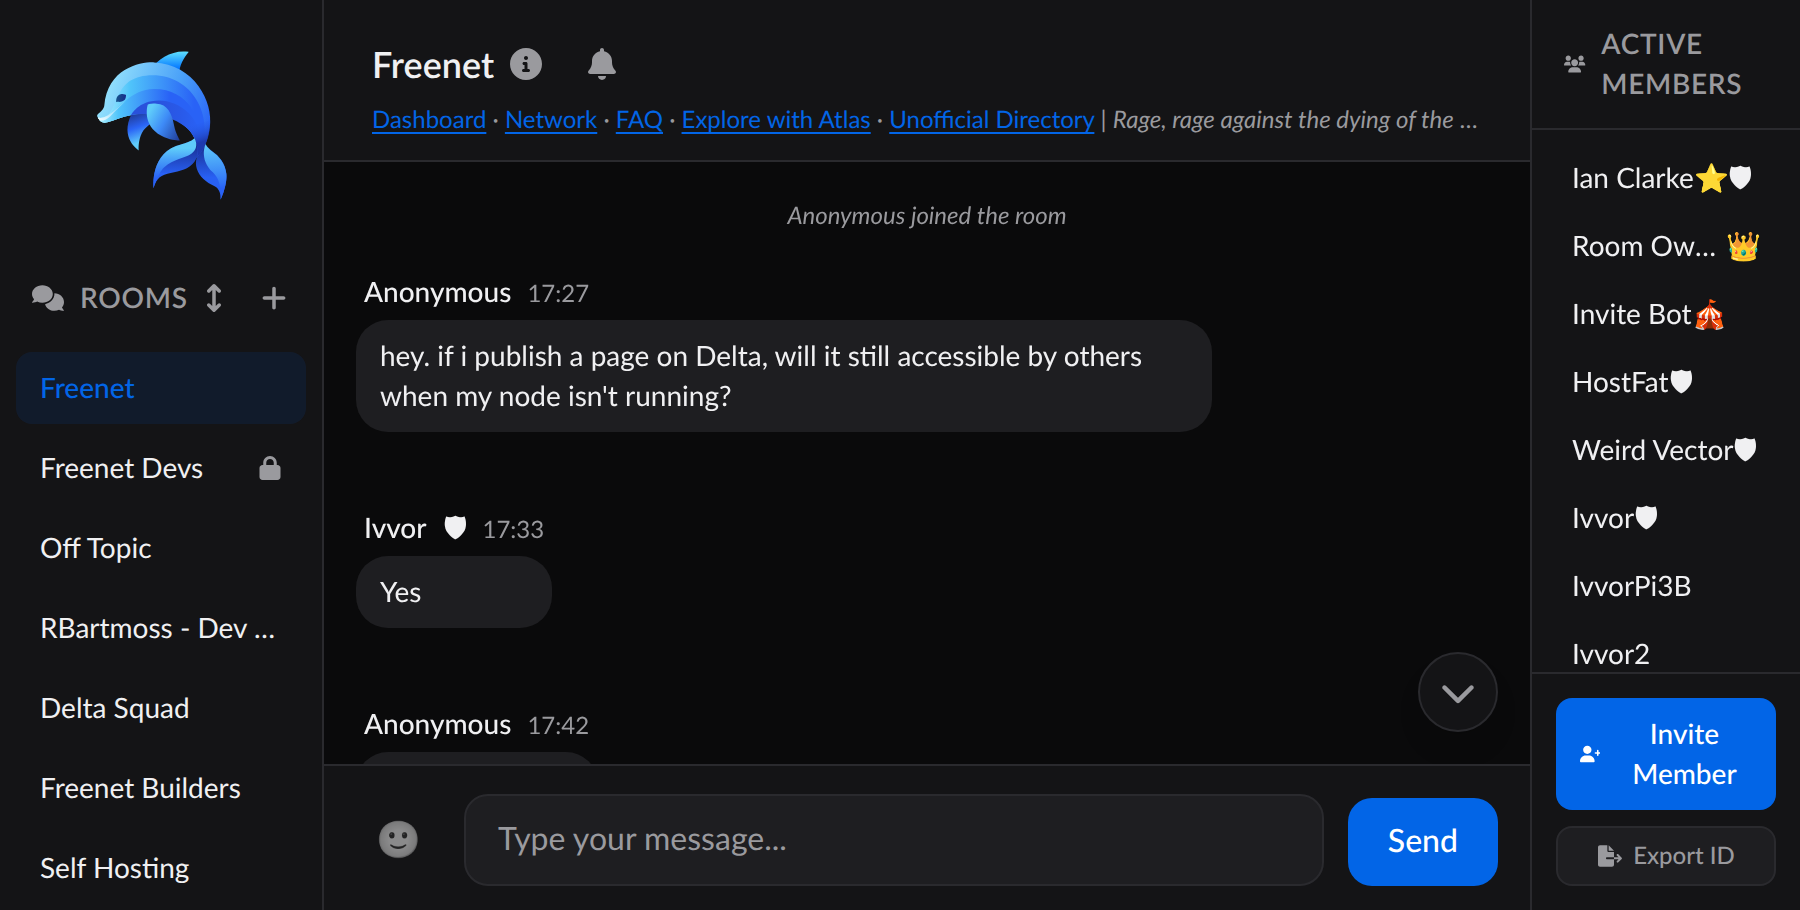
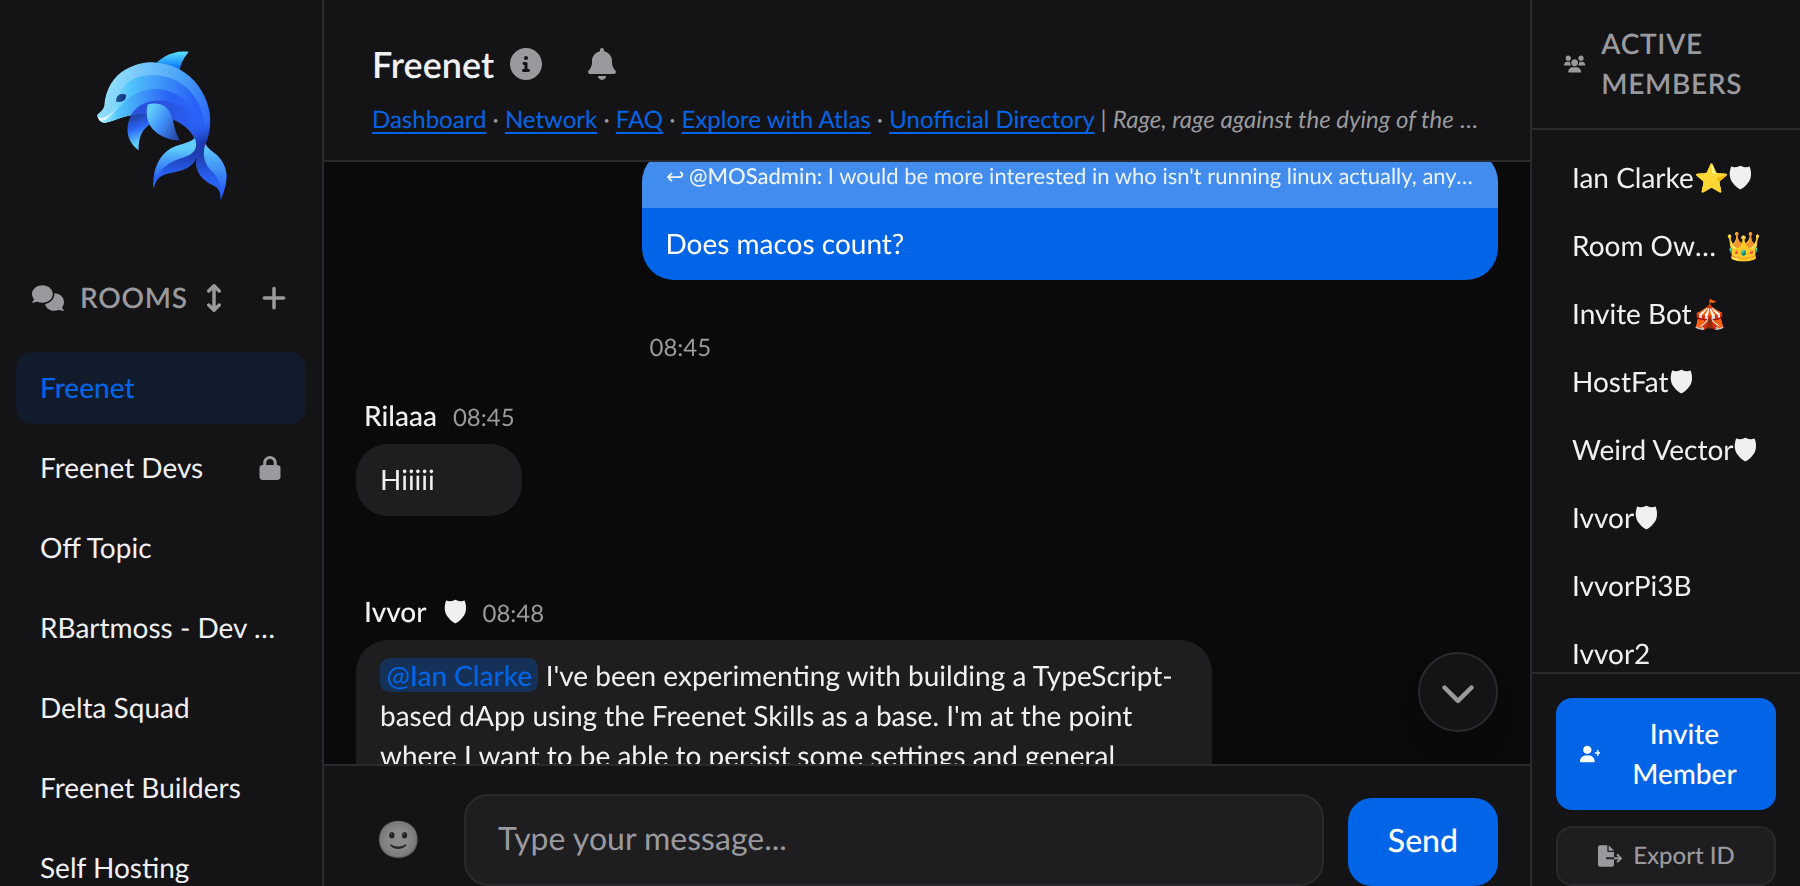
fix(hero): drop the durability claim; serve WebP on /river/; trim dead band
Re-review confirmed the recapture is clean (no gossip, no private rooms, no
complaints, light/dark pixel-parity verified by text-mask XOR) but raised a
better objection about the content itself.

The featured exchange was "if i publish a page on Delta, will it still
accessible by others when my node isn't running?" -> "Yes". That is an
unqualified durability guarantee, as the most legible text on the front page
and in the /river/ og:image card, about precisely the property that is the
project's hardest open problem right now. The rest of the site is careful
here: the hero note says "No mobile app yet", /river/ carries a column of
alpha caveats, and the project deliberately keeps "hosting" and "storing"
distinct. A claim embedded in a PNG cannot be softened by a prose edit.

Recaptured on an exchange that shows the product without asserting anything:
community banter ("Does macos count?"), a greeting, and a developer asking
about building a TypeScript dApp on Freenet Skills. That last one is better
signal than the answer it replaces - it shows someone building.

Also from re-review:

- /river/ was loading river-screenshot-dark.png as its LCP image with
  fetchpriority=high while an identical WebP sat in the repo. Dark was
  130KB on production and had regressed to 192KB here; it now serves the
  83KB WebP on both pages. Verified via currentSrc and content-length.
- All four images carried a 24px band of dead background below the input
[…]

diff --git a/hugo-site/themes/freenet/layouts/river/list.html b/hugo-site/themes/freenet/layouts/river/list.html
@@ -1,6 +1,8 @@
 {{ define "main" }}
 {{- $light := "images/river-screenshot-light.png" | relURL -}}
 {{- $dark := "images/river-screenshot-dark.png" | relURL -}}
+{{- $lightWebp := "images/river-hero-light.webp" | relURL -}}
+{{- $darkWebp := "images/river-hero-dark.webp" | relURL -}}
 {{- $logo := "images/river_logo.svg" | relURL -}}
 
 <!-- ===================== HERO ===================== -->
@@ -43,10 +45,14 @@
         <picture>
           {{/* Both screenshots are captured in one pass at the same viewport, so
                they share one aspect ratio and one set of dimensions. They used to
-               be 1290x867 dark against 1379x1269 light and needed separate
-               boxes. */}}
-          <source srcset="{{ $dark }}" media="(prefers-color-scheme: dark)" width="1800" height="910">
-          <img src="{{ $light }}" alt="A live River chat room, the Freenet room, with a room list, messages and a member list" width="1800" height="910" fetchpriority="high">
+               be 1290x867 dark against 1379x1269 light and needed separate boxes.
+
+               WebP first: this is the LCP image on this page and it was loading
+               the PNG fallback, which is more than twice the size in dark. */}}
+          <source type="image/webp" srcset="{{ $darkWebp }}" media="(prefers-color-scheme: dark)" width="1800" height="886">
+          <source type="image/webp" srcset="{{ $lightWebp }}" width="1800" height="886">
+          <source srcset="{{ $dark }}" media="(prefers-color-scheme: dark)" width="1800" height="886">
+          <img src="{{ $light }}" alt="A live River chat room, the Freenet room, with a room list, messages and a member list" width="1800" height="886" fetchpriority="high">
         </picture>
       </div>
     </div>

diff --git a/hugo-site/themes/freenet/layouts/river/baseof.html b/hugo-site/themes/freenet/layouts/river/baseof.html
@@ -9,6 +9,8 @@
     <meta property="og:type" content="website">
     <meta property="og:url" content="{{ .Permalink }}">
     <meta property="og:image" content="{{ "images/river-screenshot-light.png" | absURL }}">
+    <meta property="og:image:width" content="1800">
+    <meta property="og:image:height" content="886">
     <meta name="twitter:card" content="summary_large_image">
     <style>
     /* ===== River landing page (scoped to .river-page; loads only on /river) ===== */

diff --git a/hugo-site/content/_index.md b/hugo-site/content/_index.md
@@ -37,14 +37,14 @@ side.</p>
     </span>
     <picture>
       <source type="image/webp" srcset="/images/river-hero-dark.webp"
-              media="(prefers-color-scheme: dark)" width="1800" height="910">
+              media="(prefers-color-scheme: dark)" width="1800" height="886">
       <source type="image/webp" srcset="/images/river-hero-light.webp"
-              width="1800" height="910">
+              width="1800" height="886">
       <source srcset="/images/river-screenshot-dark.png"
-              media="(prefers-color-scheme: dark)" width="1800" height="910">
+              media="(prefers-color-scheme: dark)" width="1800" height="886">
       <img src="/images/river-screenshot-light.png"
            alt="A live River chat room, the Freenet room, showing a room list, a conversation and a member list"
-           width="1800" height="910" fetchpriority="high" decoding="async">
+           width="1800" height="886" fetchpriority="high" decoding="async">
     </picture>
   </a>
 </div>
